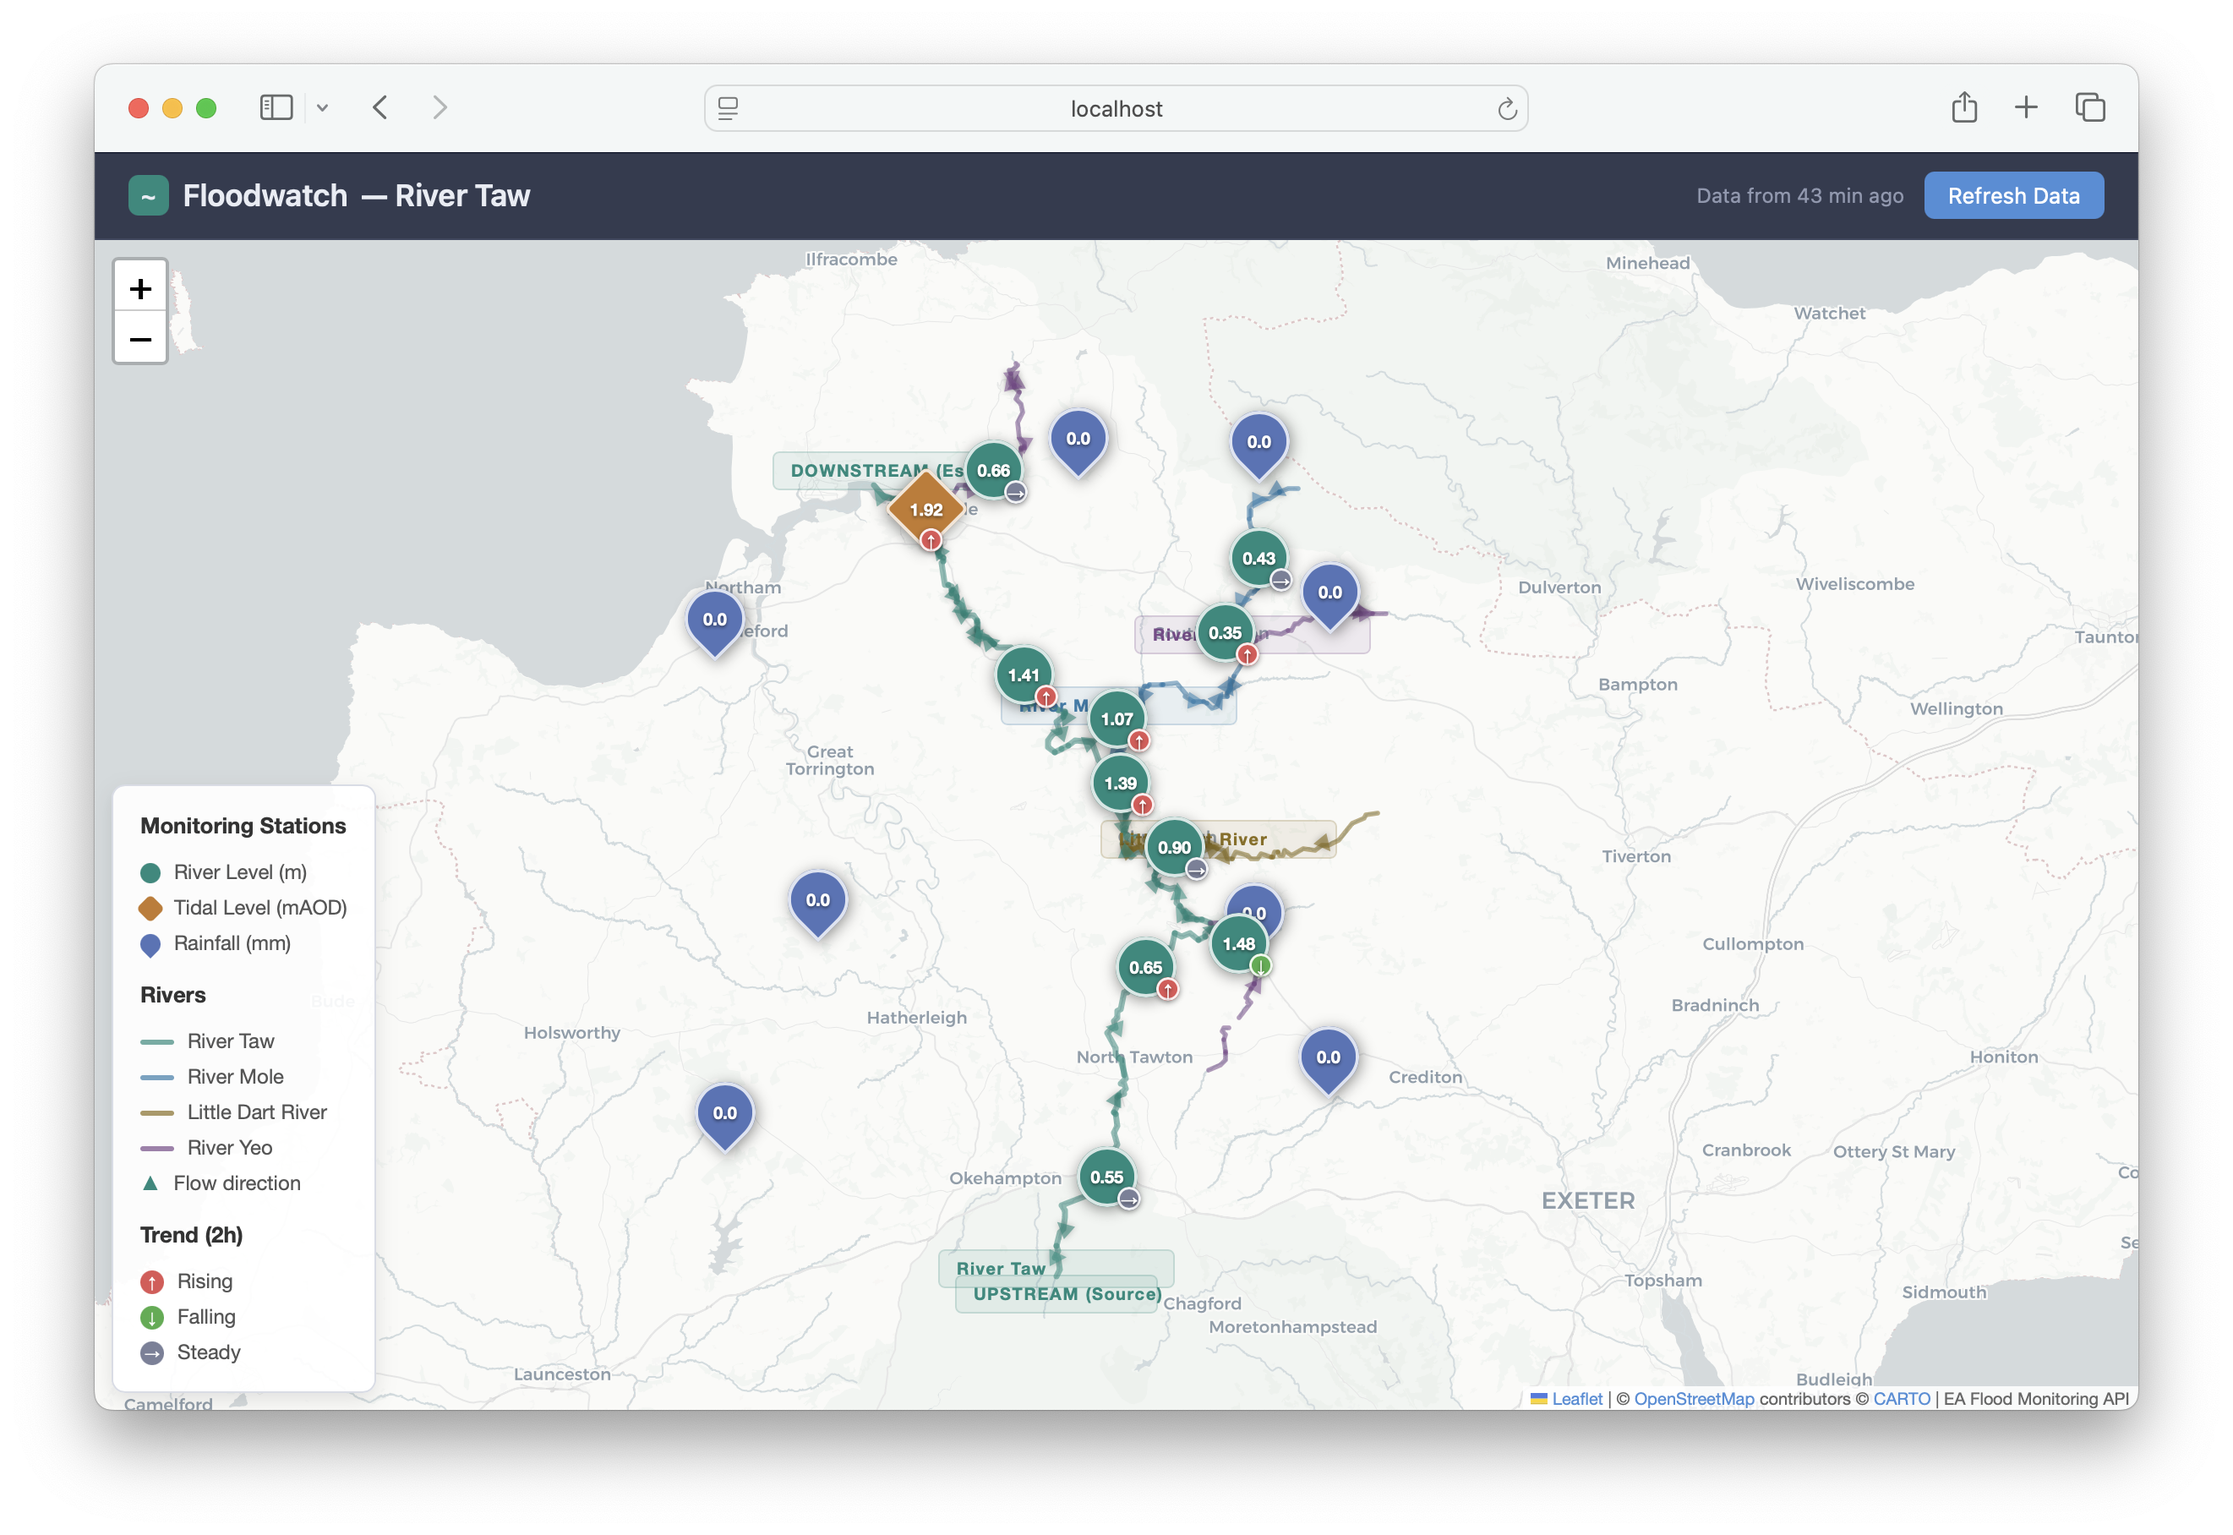
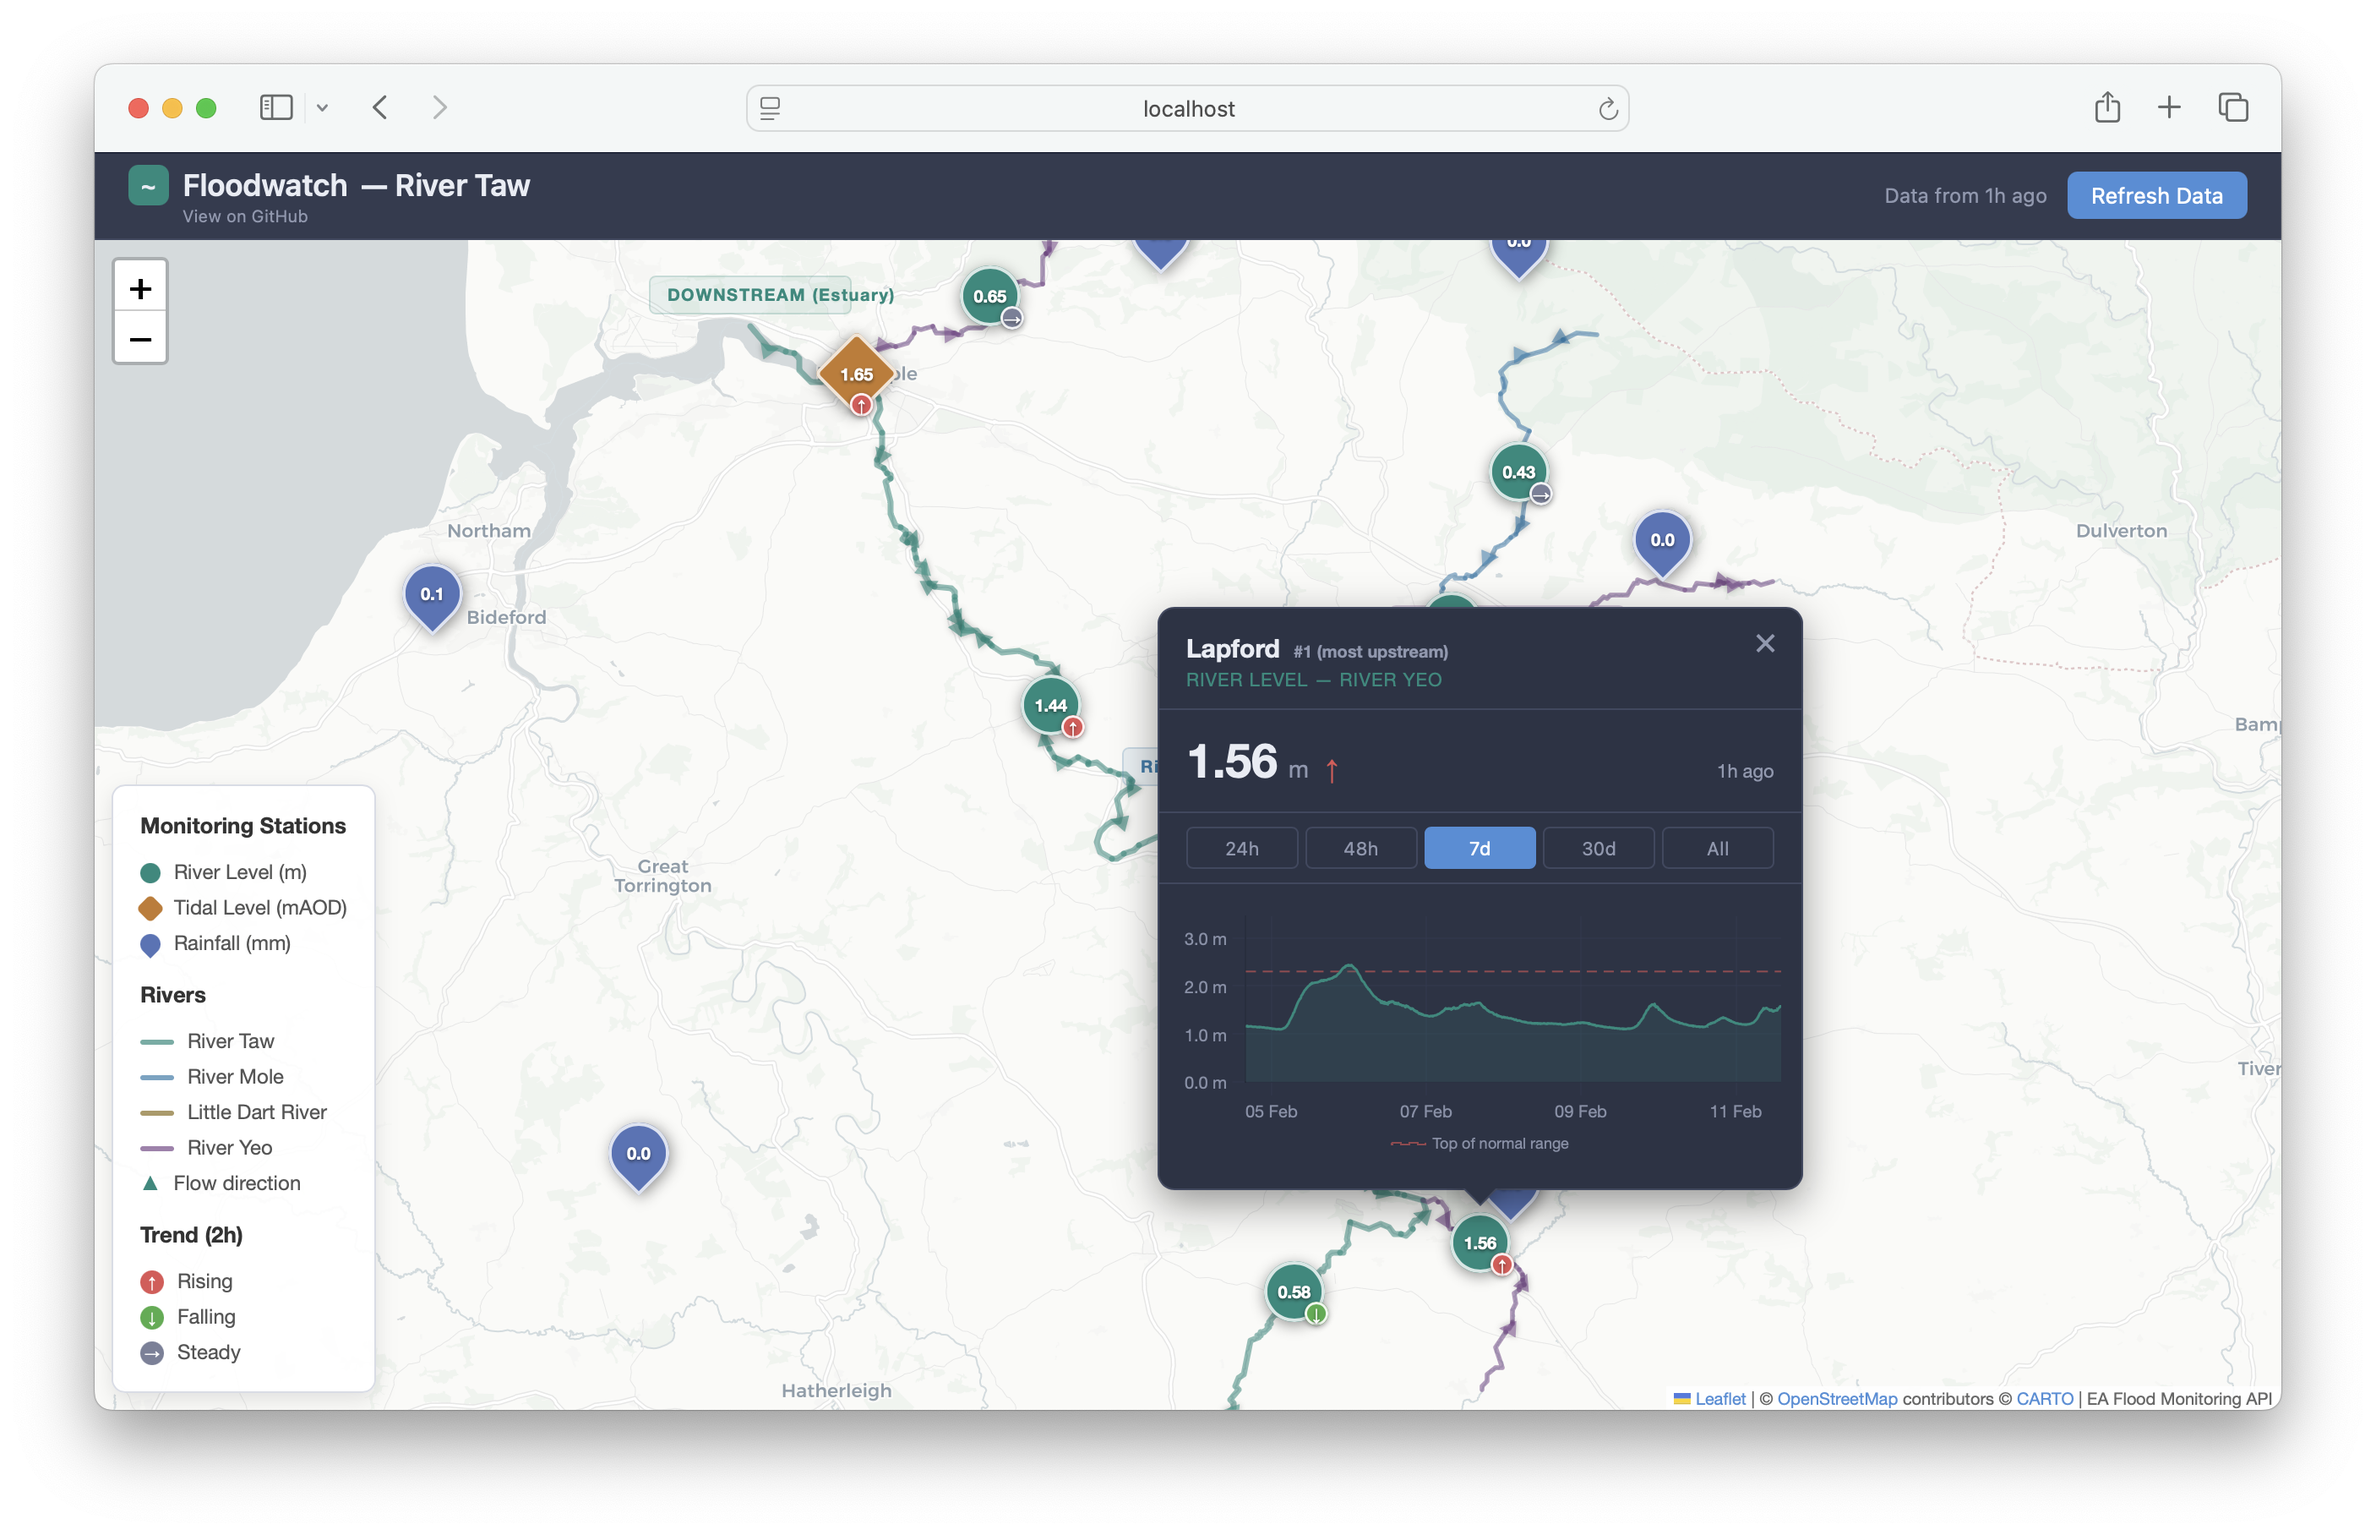
Updated screenshot. Added link to repo

diff --git a/index.html b/index.html
@@ -68,6 +68,23 @@
             font-size: 14px;
         }
 
+        .header-left {
+            display: flex;
+            flex-direction: column;
+            gap: 0px;
+        }
+
+        .github-link {
+            font-size: 10px;
+            color: var(--text-secondary);
+            text-decoration: none;
+            padding-left: 32px;
+        }
+
+        .github-link:hover {
+            color: var(--text-primary);
+        }
+
         .header-right {
             display: flex;
             align-items: center;
@@ -609,6 +626,11 @@
                 display: none;
             }
 
+            .github-link {
+                font-size: 9px;
+                padding-left: 24px;
+            }
+
             .header-right {
                 flex-direction: column;
                 align-items: flex-end;
@@ -812,10 +834,13 @@
 </head>
 <body>
     <div id="header">
-        <h1>
-            <span class="logo-icon">~</span>
-            Floodwatch<span class="subtitle"> &mdash; River Taw</span>
-        </h1>
+        <div class="header-left">
+            <h1>
+                <span class="logo-icon">~</span>
+                Floodwatch<span class="subtitle"> &mdash; River Taw</span>
+            </h1>
+            <a href="https://github.com/aallan/floodwatch" class="github-link" target="_blank" rel="noopener">View on GitHub</a>
+        </div>
         <div class="header-right">
             <span class="last-updated" id="last-updated"></span>
             <button id="refresh-btn" onclick="refreshData()">
